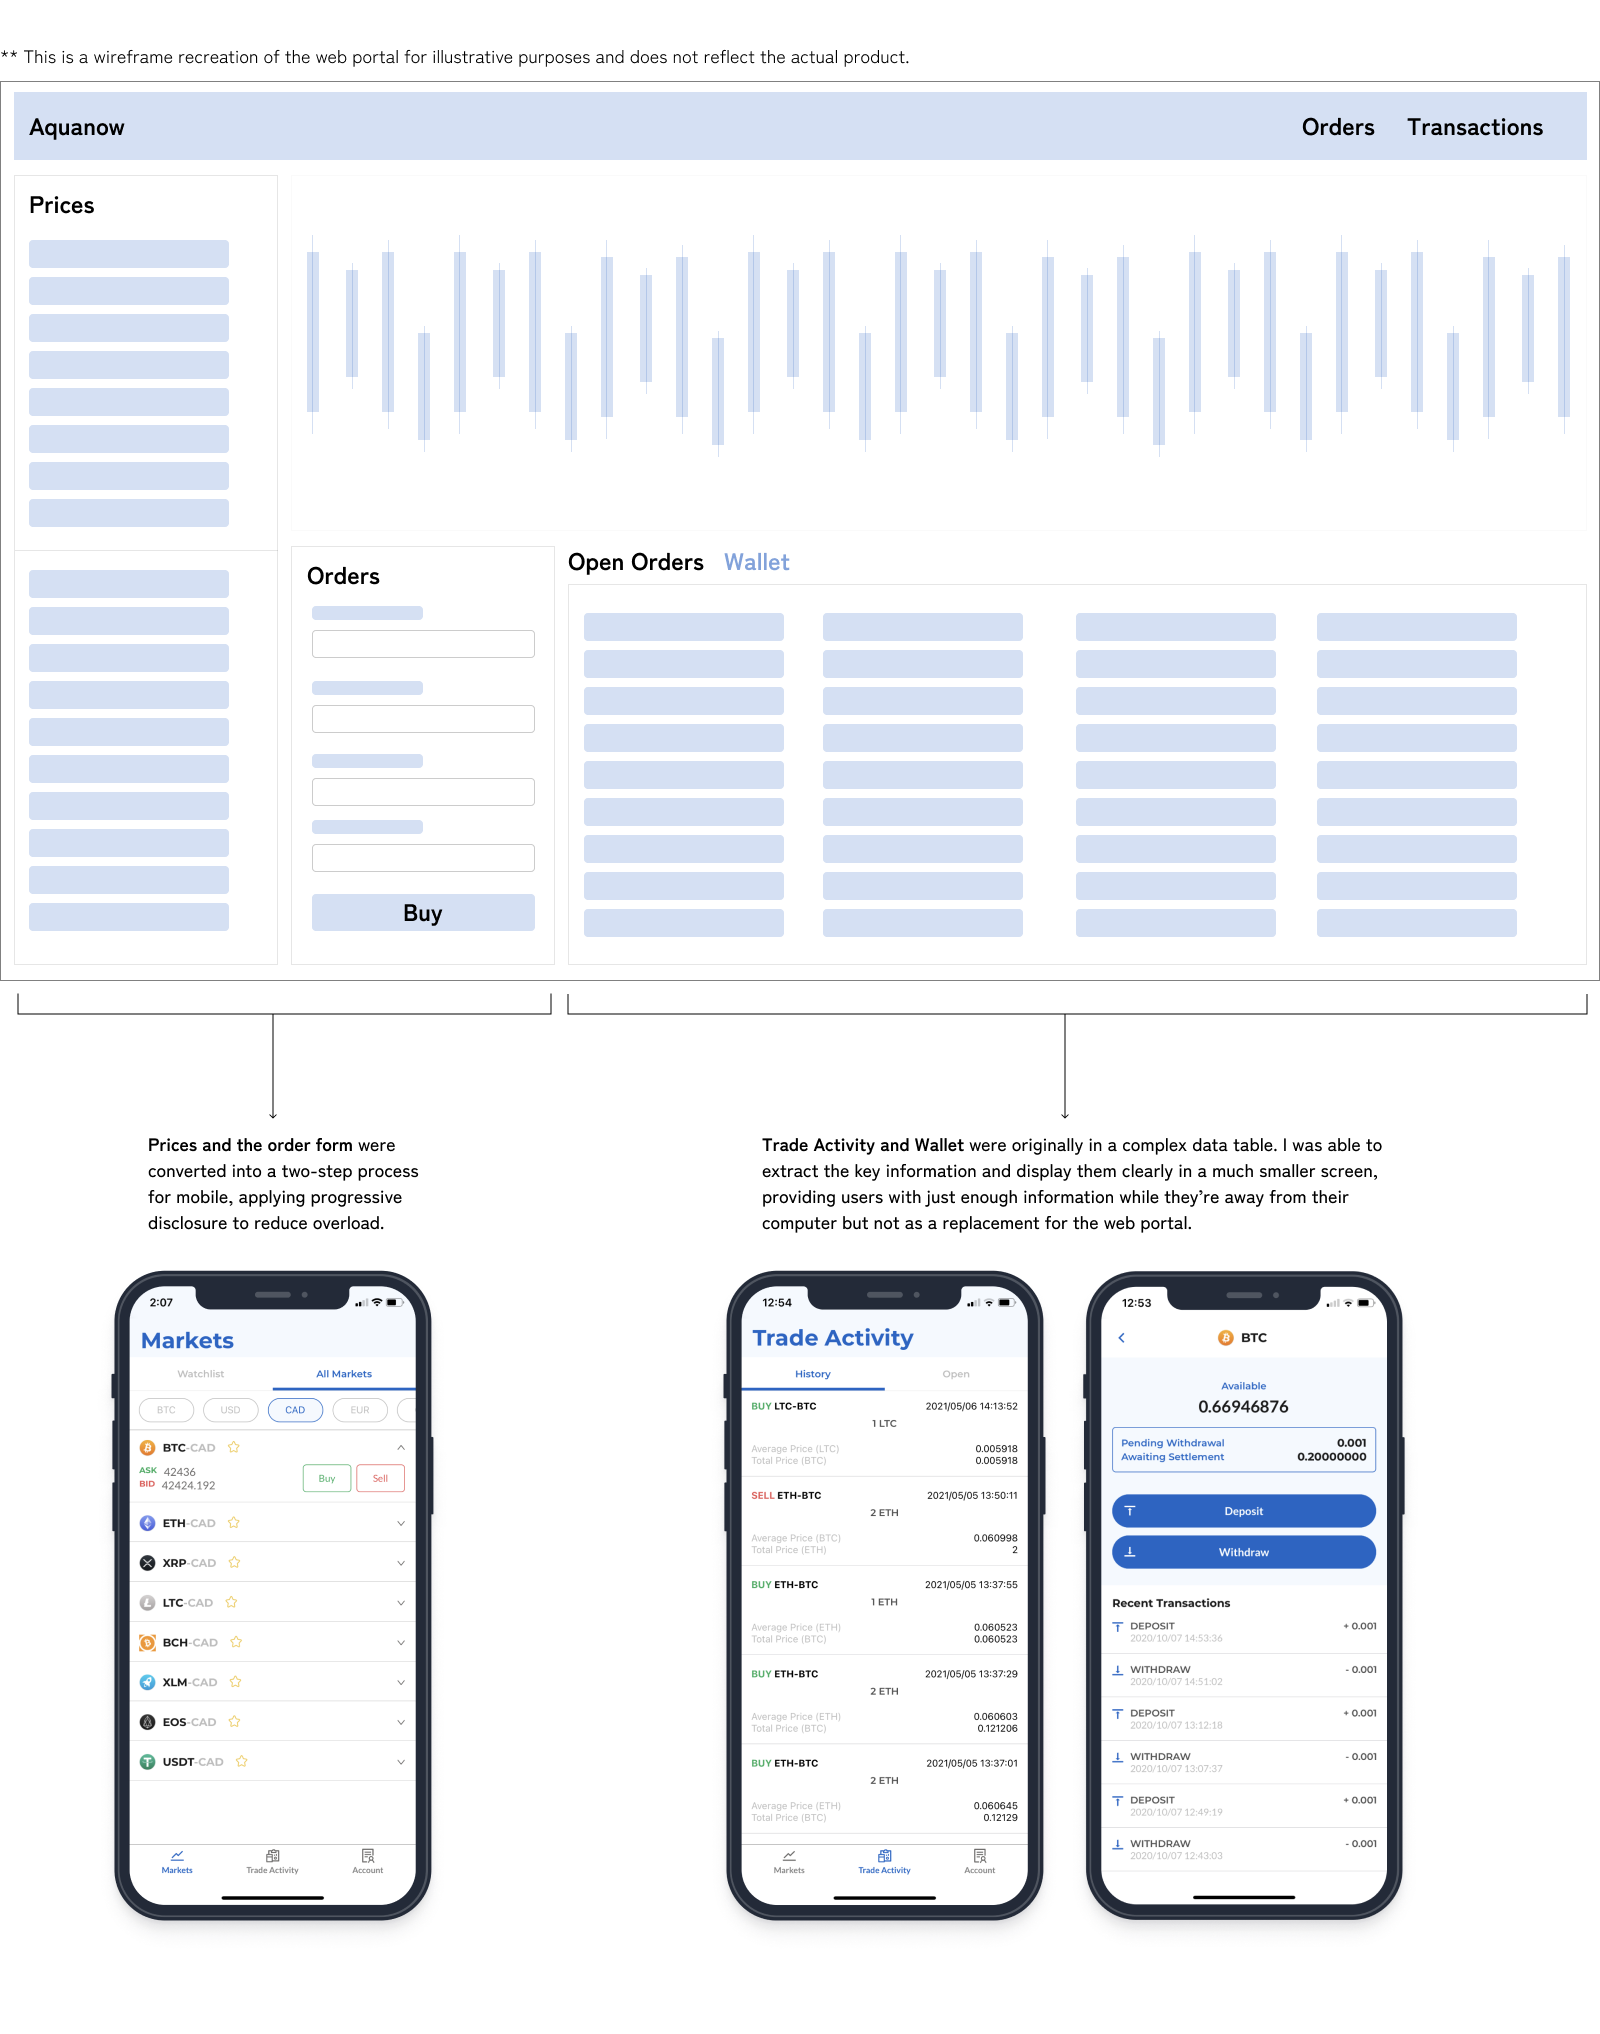
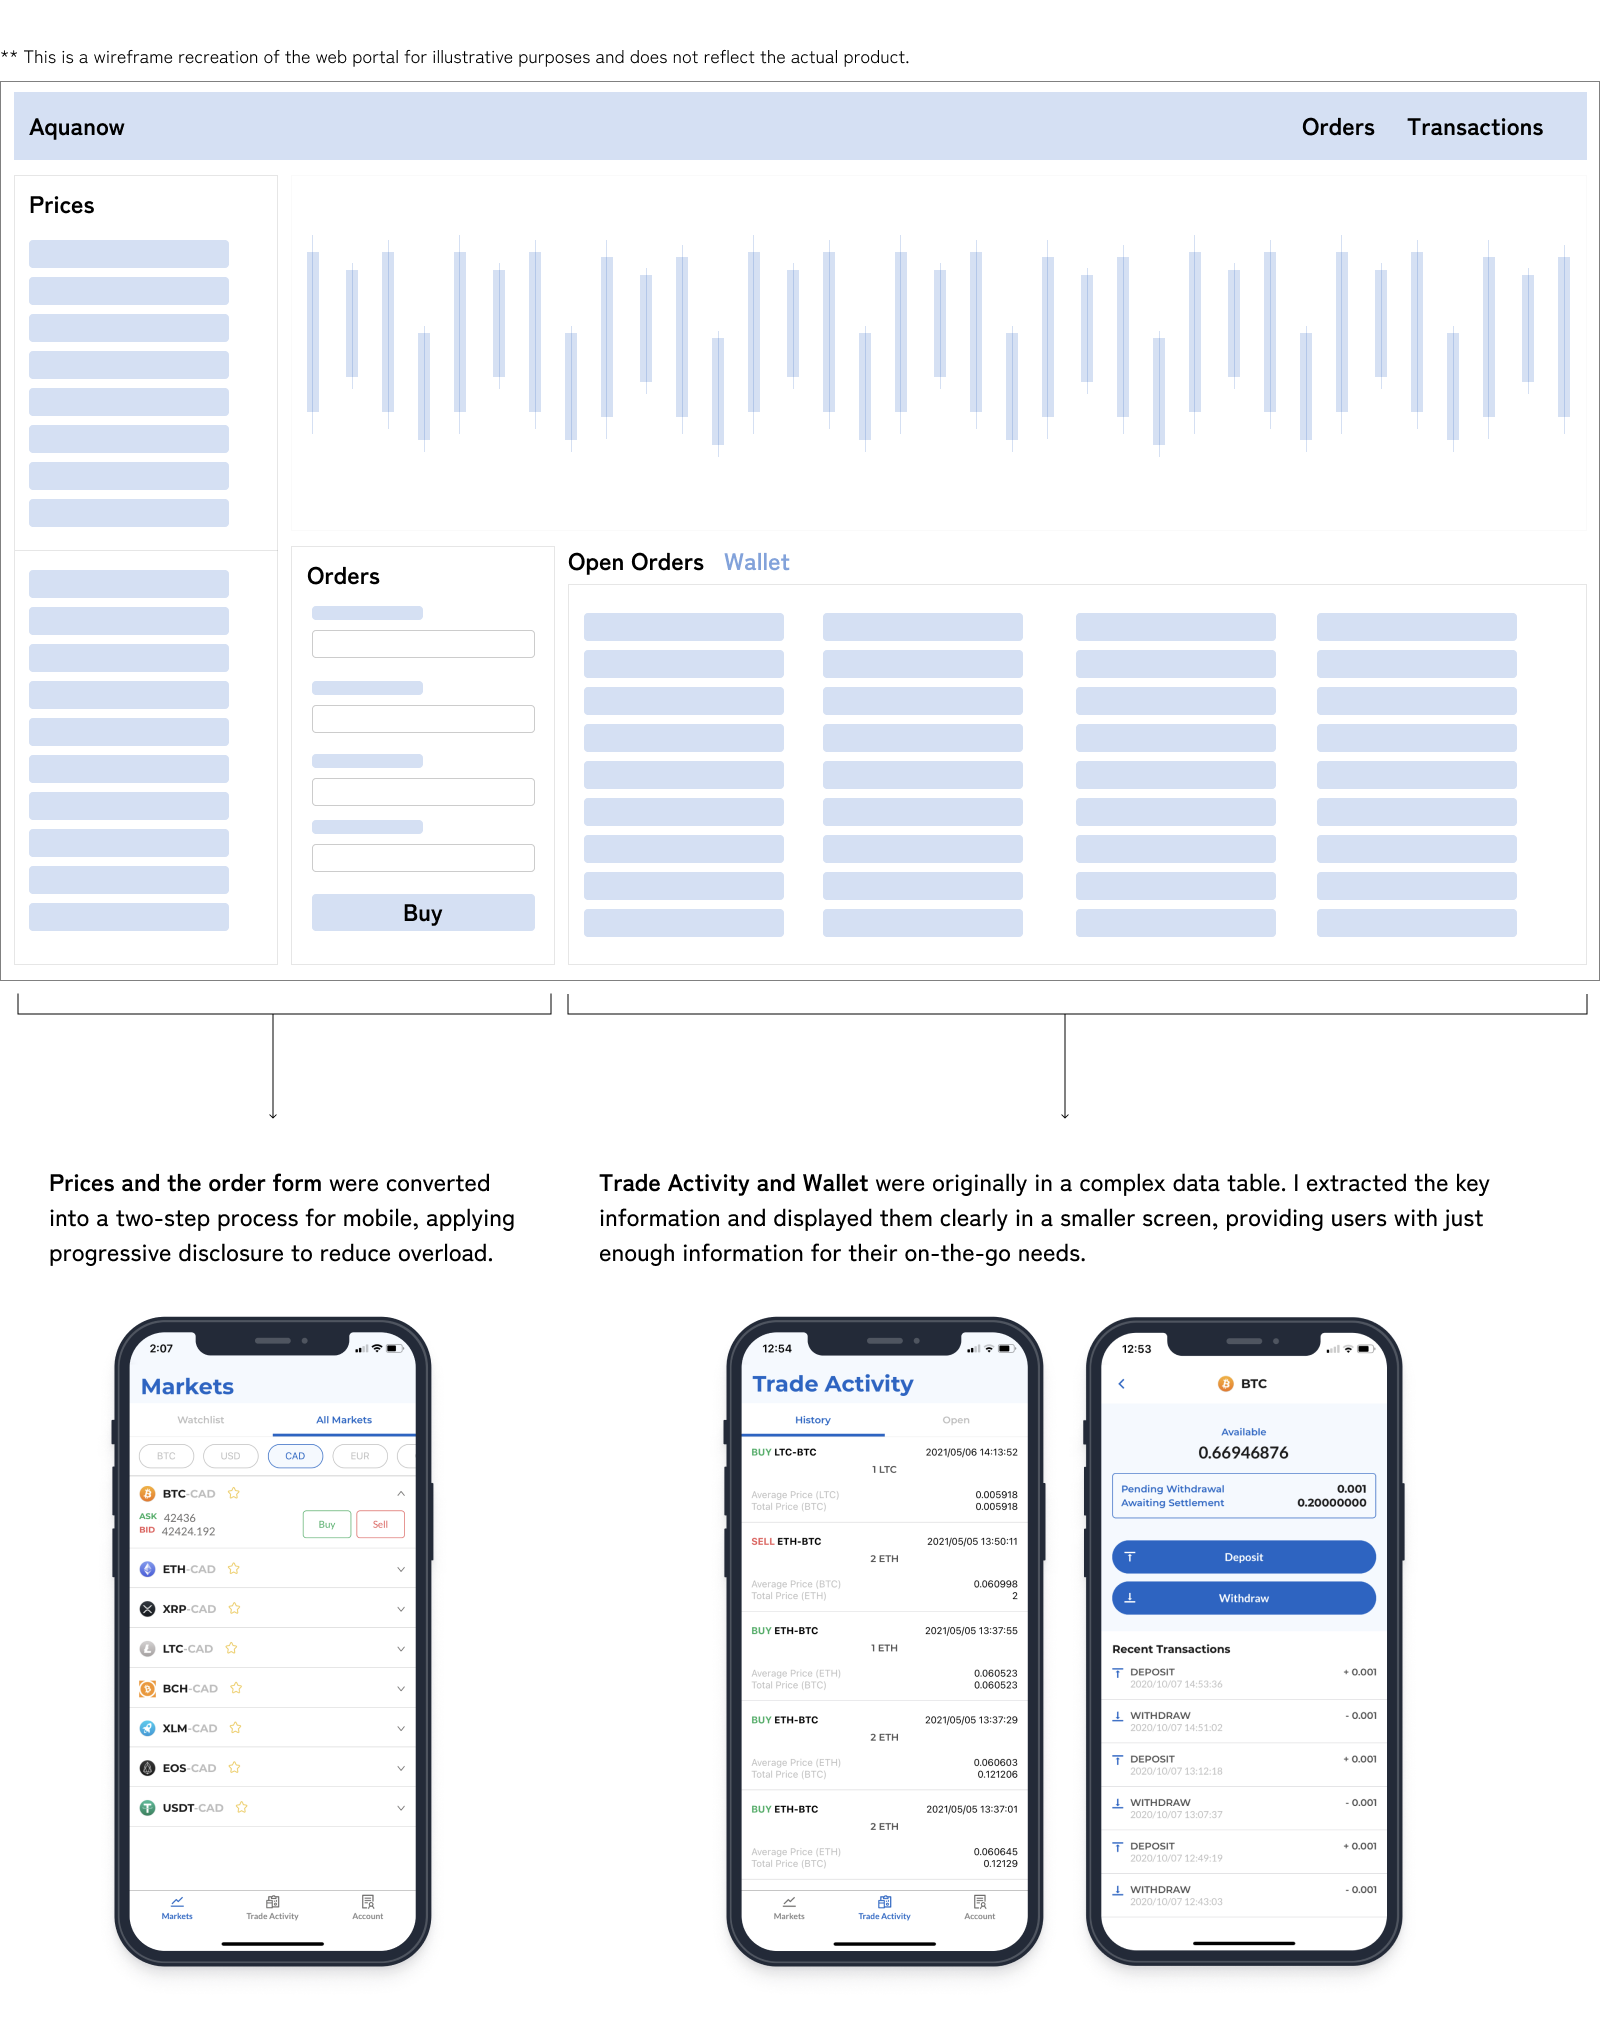
update aqn case study

diff --git a/aquanow.html b/aquanow.html
@@ -46,23 +46,12 @@
 
   <main>
     <div>
-      <div class="flexbox" style="background-color: #1166C8;">
+      <div class="flexbox" style="background-color: #1166C8;padding-top:5%">
         <div class="project-intro-text flex-onethird" style="padding:10% 0 5% 10%">
           <h1 class="project-title"><img src="img/aquanow/logo.svg" alt="Aquanow Logo"></h1>
-          <p class="project-intro">As the first and only designer on the team, I was responsible for establishing the UX presence within the company as well as delivering quality, user-led designs. </p>
+          <p class="project-intro">I designed the Aquanow mobile app, which saved time for the operations support team by converting a crypto-trading platform
+            from web to mobile, allowing customers to self-serve basic trading and wallet management.</p>
           <div class="spacer-small-horizontal"></div>
-          <div class="role">
-            <h2 class="project-subheader">Successes</h2>
-            <ul class="project-role" style="margin-top:0">
-              <li>Increased cross-team collaboration by using design thinking skills and methodologies to bring together
-                stakeholders from different teams.</li>
-              <li>Improved design efficiency by creating the first version of the Aquanow design system, reducing
-                feature design time by leveraging reusable component symbols in Figma.</li>
-              <li>Integrated UX presence into product development by fostering good relations with the engineering and
-                product owners, opening opportunities for UX to be included in the agile process.</li>
-            </ul>
-          </div>
-
         </div>
         <div class="flex-half">
           <img src="img/aquanow/case-study-banner.png" alt="Mockup of an interface on a Mac desktop"
@@ -70,15 +59,13 @@
         </div>
       </div>
 
-
       <div class="spacer-large-horizontal"></div>
 
       <section class="narrow-section flexbox">
         <div class="flex-twothird">
           <h2 class="paragraph-header">The Problem</h2>
-          <p class="paragraph">When I was hired, customers were conducting crypto trades through the company’s web
-            trading portal. However, they were often on-the-go and could not easily access the portal. <b>This resulted
-              in the operations team being overloaded with simple requests</b> such as balance checking, basic trades,
+          <p class="paragraph">The only option for self-serve crypto trades were through the company’s web
+            trading portal. However, customers were often on-the-go and could not easily access the portal. <b>This resulted in the operations team being overloaded with simple requests</b> such as balance checking, basic trades,
             and deposits/withdrawals.</p>
           <p class="paragraph">I was tasked with gathering the customer requirements from the operations team,
             identifying the customer’s needs, and delivering a comprehensive design for the mobile version of the web
@@ -97,27 +84,24 @@
         <div class="narrow-section">
           <h2 class="paragraph-header">Requirements</h2>
           <p class="paragraph">
-            As I was new to cryptocurrency, I started by conducting a heuristic and competitive analysis on four popular
+            As I was new to cryptocurrency, I conducted a competitive analysis on four popular
             cryptocurrency mobile apps to get myself up to speed and identify industry standards and best practices that
             would drive my design decisions and got buy-in from stakeholders. </p>
-          <div class="spacer-horizontal"></div>
+          <div class="spacer-mini-horizontal"></div>
           <div class="flexbox" style="align-items: flex-start;">
             <div class="flex-onethird">
-              <p class="paragraph"><strong>01 / Progressive Information Disclosure</strong></p>
+              <p class="paragraph"><strong>Progressive Information Disclosure</strong></p>
               <p class="paragraph">Screen space on mobile is limited in comaprison to web, meaning we need to balance
-                the information density on each page. The best way to do this is to hide information until the user
-                needs it.</p>
+                the information density on each page. </p>
             </div>
             <div class="flex-onethird">
-              <p class="paragraph"><strong>02 / Remove the Fluff, Get to the Prices</strong></p>
-              <p class="paragraph">Prices were displayed prominently on the dashboard, meaning you could begin thinking
-                about trades right away. In many apps, you didn't need to deposit money or set wallet addresses until
-                you were ready to trade. </p>
+              <p class="paragraph"><strong>Remove the Fluff, Get to the Prices</strong></p>
+              <p class="paragraph">Prices were displayed prominently on the dashboard, meaning you could begin thinking about trades right away with minimal barriers like setting up your wallet until
+             users were ready to trade. </p>
             </div>
             <div class="flex-onethird">
-              <p class="paragraph"><strong>03 / Prioritize Numbers Over Charts</strong></p>
-              <p class="paragraph">The most important information on the screen was the price and type of currency. Only
-                after digging deeper is the user exposed to detailed trading charts with changes over time.</p>
+              <p class="paragraph"><strong>Prioritize Numbers Over Charts</strong></p>
+              <p class="paragraph">The most important information was the coin name and price. Only after digging deeper is the user exposed to detailed trading charts with changes over time.</p>
             </div>
           </div>
           <div class="spacer-horizontal"></div>
@@ -132,7 +116,7 @@
 
 
       <section class="narrow-section">
-        <h2 class="paragraph-header">Understanding the Customer</h2>
+        <h2 class="paragraph-header">Use Case & Customer Journey</h2>
         <p class="paragraph">I received feature requirements from the operations team but before diving in, I took a
           step back to confirm we were tackling the right issue. I conducted a user journey mapping exercise, consulting
           with subject matter experts for accuracy. Emphasizing the customer's perspective, we validated that features
@@ -146,30 +130,25 @@
       <div class="spacer-horizontal"></div>
 
       <section class="narrow-section">
-        <h2 class="paragraph-header">Architecting an App</h2>
-        <p class="paragraph">I collaborated closely with the mobile developer, delivering iterative design work. In
-          the early stages, I used sitemaps and wireflows to share concepts quickly, iterating based on feedback. Once
-          high-level flows were approved, the developer started work, allowing me to focus on detailed interactions.
-        </p>
-        <div class="spacer-mini-horizontal"></div>
-        <img src="img/aquanow/wireflow.png" alt="Mockup of an interface on a Mac desktop" class="project-banner">
+        <h2 class="paragraph-header">Web to Mobile Architecture</h2>
+        <img src="img/aquanow/web-to-mobile.png" alt="Mockup of an interface on a Mac desktop" class="project-banner">
       </section>
 
       <div class="spacer-large-horizontal"></div>
       <div class="spacer-horizontal"></div>
 
+      <div>The Final Design</div>
+
+      <div class="spacer-large-horizontal"></div>
+      <div class="spacer-horizontal"></div>
+
       <section class="narrow-section">
-        <h2 class="paragraph-header">Design Process</h2>
-        <p class="paragraph">As I explored concepts, one feature that went through many rounds of iteration was the
-          market
-          view, the most important view in the app. It was the first page that customers would see and it showed the
+        <h2 class="paragraph-header">Markets</h2>
+        <p class="paragraph">The market view was the first page that customers would see and it showed the
           prices
-          for coins.</p>
-        <p class="paragraph">There were many different elements of the page that competed in importance and so the
-          ultimate
-          goal was to find the right balance. I listened closely to our subject experts’ feedback, while also referring
+          for coins.There were many different elements of the page that competed in importance so it was critical to find the right balance to increase the chances of converting users from browsing to completing a trade. I listened closely to our subject experts’ feedback, while also referring
           to the
-          competitors that I studied at the start and providing a user-focused perspective. Happily, we came to a final
+          competitors that I studied at the start and providing a user-focused perspective. We came to a final
           design
           that satisfied everyone’s concerns.</p>
 
@@ -186,7 +165,6 @@
             predominantly versed in web design. I was transparent about design rationale, emphasizing changes needed to
             convert UI from web to mobile. This fostered mobile design fluency among the team, resulting in more
             targeted feedback and enhanced UX overall.</p>
-        <img src="img/aquanow/web-to-mobile.png" alt="Mockup of an interface on a Mac desktop" class="project-banner">
       </section>
 
       <div class="spacer-large-horizontal"></div>
